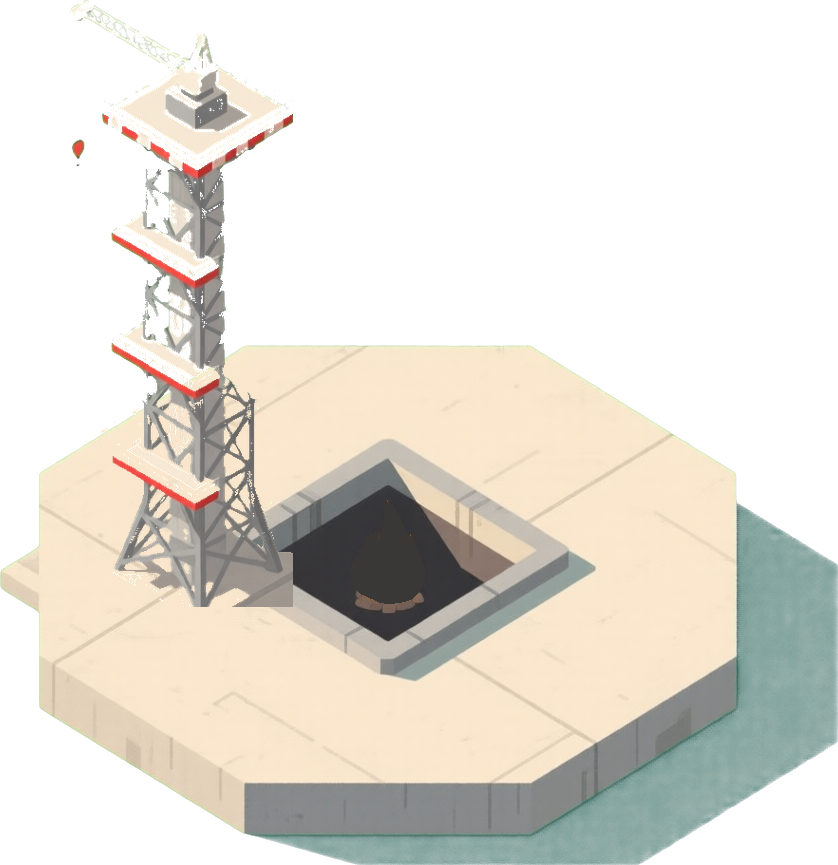
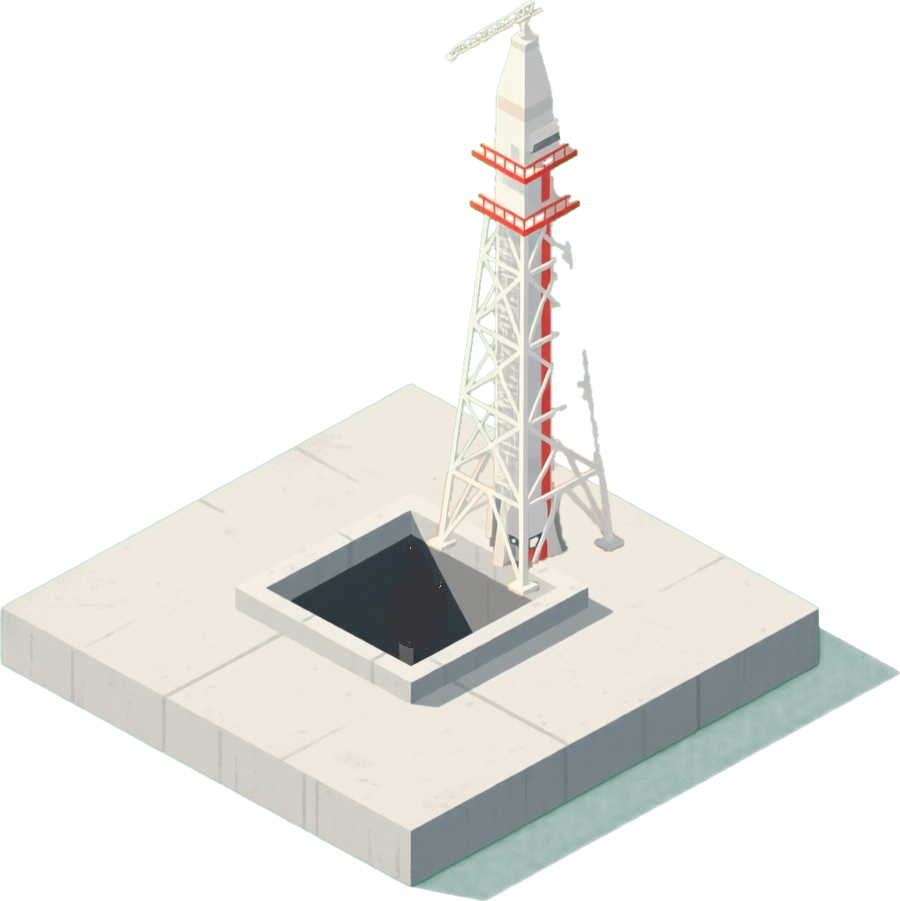
Woomera launch pads of its own: white-and-red gantry on pale concrete
The Commonwealth site borrowed Baikonur's pads. New parts generated in the
Woomera palette and assembled by assemble_pads.py, which now paints the
generator's fire out of the flame pit, keys the sand slab and shadow off
the gantry, and makes the wrecked pad by toppling the same gantry across a
scorched platform (the generator attaches a building to every wreck).
tools/shot_port.gd screenshots a side's port fully built and fresh.

diff --git a/tools/art_source/assemble_pads.py b/tools/art_source/assemble_pads.py
@@ -16,7 +16,8 @@ from PIL import Image, ImageEnhance
 ap = argparse.ArgumentParser()
 ap.add_argument("parts"); ap.add_argument("out")
 ap.add_argument("--platform", type=int, required=True); ap.add_argument("--gantry", type=int, required=True)
-ap.add_argument("--wreck", type=int, required=True)
+ap.add_argument("--wreck", type=int, default=-1, help="-1: topple the gantry across the scorched platform instead")
+ap.add_argument("--unslab", action="store_true", help="key out a sand slab under the gantry")
 ap.add_argument("--gantry-scale", type=float, default=0.95)
 ap.add_argument("--gantry-dx", type=int, default=70, help="gantry foot offset from the platform centre, px")
 ap.add_argument("--gantry-dy", type=int, default=-40, help="gantry foot offset from the platform centre, px")
@@ -27,9 +28,38 @@ def tight(im):
     bb = im.getchannel("A").point(lambda v: 255 if v > 40 else 0).getbbox()
     return im.crop(bb) if bb else im
 
-site = tight(Image.open(P / f"platform_{a.platform}.png").convert("RGBA"))
+def defire(im):
+    """The generator lights every flame pit: repaint the fire and its outline as the pit's dark grey."""
+    import cv2
+    arr = np.asarray(im).astype(int); r, g, b = arr[..., 0], arr[..., 1], arr[..., 2]
+    fire = ((r > 150) & (r - b > 90) & (arr[..., 3] > 0)).astype(np.uint8)
+    near = cv2.dilate(fire, np.ones((9, 9), np.uint8)) > 0
+    dark = arr[..., :3].max(-1) < 200
+    arr[(fire > 0) | (near & dark), :3] = (52, 54, 60)
+    return Image.fromarray(arr.astype(np.uint8), "RGBA")
+
+def unslab(im):
+    """Keep only the tower: white and grey girders (neutral or cool) and red bands. Drops the sand
+    slab, its outline and the warm shadow the generator stands every tower on."""
+    import cv2
+    arr = np.asarray(im).copy(); c = arr[..., :3].astype(int); r, g, b = c[..., 0], c[..., 1], c[..., 2]
+    mx, mn = c.max(-1), c.min(-1)
+    girder = ((mx - mn < 40) & (b >= g - 8) & (mx > 110)) | ((mn > 195) & (mx - mn < 45))   # grey steel, lit white paint
+    red = (r > 140) & (r - g > 60)
+    keep = ((girder | red) & (arr[..., 3] > 40)).astype(np.uint8)
+    keep = cv2.morphologyEx(keep, cv2.MORPH_CLOSE, np.ones((5, 5), np.uint8))
+    n, lab, st, _ = cv2.connectedComponentsWithStats(keep)
+    if n > 1:
+        keep = (lab == 1 + int(np.argmax(st[1:, 4]))).astype(np.uint8)
+    alpha = cv2.GaussianBlur(cv2.dilate(keep, np.ones((3, 3), np.uint8)).astype(np.float32), (3, 3), 0)
+    arr[..., 3] = (np.minimum(arr[..., 3], alpha * 255)).astype(np.uint8)
+    return Image.fromarray(arr, "RGBA")
+
+site = defire(tight(Image.open(P / f"platform_{a.platform}.png").convert("RGBA")))
 gantry = tight(Image.open(P / f"gantry_{a.gantry}.png").convert("RGBA"))
-wreck = tight(Image.open(P / f"gantry_wreck_{a.wreck}.png").convert("RGBA"))
+if a.unslab:
+    gantry = tight(unslab(gantry))
+wreck = None if a.wreck < 0 else tight(Image.open(P / f"gantry_wreck_{a.wreck}.png").convert("RGBA"))
 site.save(O / "pad_site.png")
 
 def stand_on(base, part, scale, dx, dy):
@@ -52,7 +82,15 @@ r = np.hypot((xx - site.width / 2) / (site.width / 2), (yy - site.height / 2) / 
 dark = np.clip(1 - r, 0, 1)[..., None] * 0.55
 arr[..., :3] = arr[..., :3] * (1 - dark) + np.array([30, 26, 24.0]) * dark
 scorched = Image.fromarray(arr.clip(0, 255).astype(np.uint8), "RGBA")
-w = wreck.resize((round(site.width * 0.85), round(wreck.height * site.width * 0.85 / wreck.width)), Image.LANCZOS)
+if wreck is None:
+    # the tower fallen across the pad: rotated nearly flat, darkened, laid along the diagonal
+    fallen = gantry.resize((round(gantry.width * a.gantry_scale), round(gantry.height * a.gantry_scale)), Image.LANCZOS)
+    fallen = fallen.rotate(-72, resample=Image.BICUBIC, expand=True)
+    fallen = ImageEnhance.Brightness(fallen).enhance(0.62)
+    sc = min(1.0, site.width * 1.05 / fallen.width); fallen = fallen.resize((round(fallen.width * sc), round(fallen.height * sc)), Image.LANCZOS)
+    w = fallen
+else:
+    w = wreck.resize((round(site.width * 0.85), round(wreck.height * site.width * 0.85 / wreck.width)), Image.LANCZOS)
 dmg = scorched.copy(); dmg.alpha_composite(w, ((site.width - w.width) // 2, max(0, site.height // 2 - w.height // 2)))
 dmg.save(O / "pad_damaged.png")
 print("wrote", *(f.name for f in sorted(O.glob("pad_*.png"))))

diff --git a/game/assets/MANIFEST.md b/game/assets/MANIFEST.md
@@ -36,7 +36,7 @@ Regenerate the audio with `python3 -I tools/gen_audio.py --out game/assets/audio
 | art/backdrops/*.png | title, newscast and end-game backdrops, 1920x1080 | Qwen-Image (Apache 2.0) text-to-image via tools/comfy_batch.py; seed = crc32(name), newscast_ussr +2, mission_control_usa +1, title +20 (visor repainted gold by hand) | CC0 (AI output) |
 | art/spaceport/usa/*.png | Cape Canaveral, rebuilt 2026-10-15 as one scene: an empty ground painting with the player's road layout painted in (tools/art_source/cape_roads.py), and every building, pad state and the hangar regenerated at one locked camera angle and sun (tools/art_source/cape_locked_angle.py); autumn graded from spring | Qwen-Image (Apache 2.0) text-to-image; ground seed crc32(angle/cape_ground)+1 (tools/art_source/cape_ground.py); cutouts seed crc32(angle/<name>)+k: administration, research, programs, astronaut_complex, training, mission_control, museum, intelligence k=0, vab 2, memorial 3, hangar (building_runway) 1, launch tower (pad_ok) tower 23, pad_site padsite 30, pad_damaged padwreck 31; flag and Capitol unchanged | CC0 (AI output) |
 | art/spaceport/ussr/*.png | Baikonur, rebuilt 2026-10-16 as one scene on the original game's layout: an empty domed-horizon steppe painting (tools/art_source/baikonur_ground.py, ground 25, tracks removed by hand) with the road network drawn in as straight runs and arc fillets (tools/art_source/baikonur_compose.py, baikonur_roads.json tidied by baikonur_tidy_roads.py; the original's network traced from a screenshot, then amended by the player in PhotoCraft: pad service road, hangar access block, west approach), a slanted-ended runway strip from the player's layer, and buildings placed per baikonur_place.json (region table of the original, then the player's edits); every building, hangar and pad state regenerated at the Cape's locked camera angle in beige and tan concrete (tools/art_source/baikonur_locked_angle.py); the pads are assembled from parts (platform 12, gantry 13, wreck 11 with its slab keyed out); the assembly hall is mirrored; autumn graded from spring | Qwen-Image (Apache 2.0) text-to-image; ground seed crc32(baikonur/ground)+25; cutouts seed crc32(baikonur/<name>)+k: administration 0, research 2, programs 2, astronaut_complex 0, training 1, vab 4, mission_control 1, museum 1, intelligence 1, hangar (building_runway) 1, memorial 3 (obelisk cut from its block); flag and Kremlin unchanged | CC0 (AI output) |
-| art/spaceport/cwth/*.png | Woomera, rebuilt 2026-10-16 as one scene: an empty red-outback painting with a high domed horizon (tools/art_source/woomera_ground.py, ground 3; tracks and the large foreground bushes inpainted out), the player's road plan from their PhotoCraft edit drawn in as straight bitumen runs with arc corners and six paved car parks (tools/art_source/woomera_compose.py, woomera_roads.json tidied by baikonur_tidy_roads.py), a wide slanted-ended runway strip measured from the player's layer, and buildings placed per woomera_place.json; every building and the hangar regenerated at the Cape's locked camera angle in the pale sage-green and cream RAAF-station finish (tools/art_source/woomera_locked_angle.py, PALETTE=green); the launch pads reuse Baikonur's assembled concrete-and-steel pad parts; autumn graded from spring | Qwen-Image (Apache 2.0) text-to-image; ground seed crc32(woomera/ground)+3; cutouts seed crc32(woomera/green/<name>)+0; flag and Big Ben unchanged | CC0 (AI output) |
+| art/spaceport/cwth/*.png | Woomera, rebuilt 2026-10-16 as one scene: an empty red-outback painting with a high domed horizon (tools/art_source/woomera_ground.py, ground 3; tracks and the large foreground bushes inpainted out), the player's road plan from their PhotoCraft edit drawn in as straight bitumen runs with arc corners and six paved car parks (tools/art_source/woomera_compose.py, woomera_roads.json tidied by baikonur_tidy_roads.py), a wide slanted-ended runway strip measured from the player's layer, and buildings placed per woomera_place.json; every building and the hangar regenerated at the Cape's locked camera angle in the pale sage-green and cream RAAF-station finish (tools/art_source/woomera_locked_angle.py, PALETTE=green); the launch pads are assembled by tools/art_source/assemble_pads.py from a generated square platform and white-and-red lattice gantry (tools/art_source/woomera_pad_parts, seeds crc32(woomera/green/platform)+2 and crc32(woomera/green/gantry)+0): fire painted out of the pit, the gantry's sand slab keyed off, the wreck the same gantry toppled across a scorched platform; autumn graded from spring | Qwen-Image (Apache 2.0) text-to-image; ground seed crc32(woomera/ground)+3; cutouts seed crc32(woomera/green/<name>)+0; flag and Big Ben unchanged | CC0 (AI output) |
 | art/icons/budget.svg, hardware.svg, future.svg, recruiting.svg, preferences.svg | Administration menu glyphs, 64x64 | hand-drawn for this project | GPL-2.0-or-later (project) |
 | art/icons/flag_usa.svg, flag_ussr.svg | simplified national flags, 76x40 | hand-drawn for this project | GPL-2.0-or-later (project) |
 | art/icons/flag_cwth.svg | Commonwealth flag, 80x40: a blue ensign with the Union Jack and a gold sunburst globe, at the player's request | drawn for this project from geometry (generated by script, not traced) | GPL-2.0-or-later (project) |
